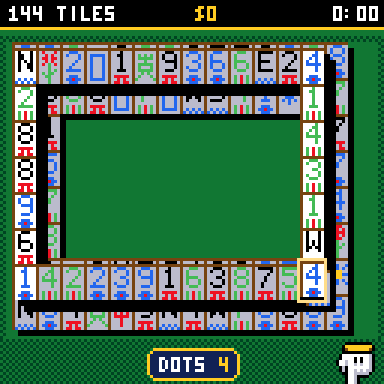
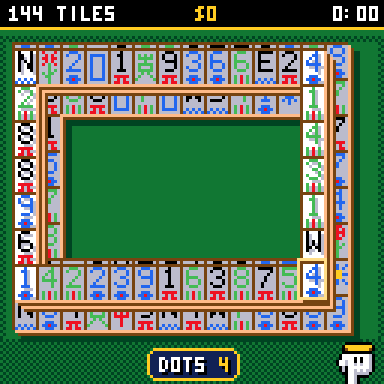
README and pictures for the close-up and the new tiles

diff --git a/README.md b/README.md
@@ -3,8 +3,9 @@
 Mahjong solitaire for the [CHGame](https://github.com/bateske/CH32SerialBoot)
 handheld (CH32X035 RISC-V, 128x128 colour LCD, piezo), in the casino style
 of [CHBlackjack](https://github.com/bateske/CHBlackjack) and
-[CHChess](https://github.com/bateske/CHChess): 144 tiles stacked on the
-felt, a pointing glove that hops between the tiles you can take, pairs that
+[CHChess](https://github.com/bateske/CHChess): 144 embossed ivory tiles
+stacked on the felt, a close-up camera that whips in round the glove, a
+pointing glove that hops between the tiles you can take, pairs that
 fly together and burst into sparks and coins, chips for every pair and a
 streak that pays more the faster you find the next one, and JACKPOT! in
 Blackjack's dancing rainbow letters when the table is cleared.
@@ -15,8 +16,8 @@ ARENA, BRIDGE and TWINS.
 | Taking pairs | The jackpot | No moves: a shuffle |
 |---|---|---|
 | ![pairs](docs/pairs.gif) | ![jackpot](docs/jackpot.gif) | ![shuffle](docs/shuffle.gif) |
-| **Title** | **The deal** | **Layouts** |
-| ![title](docs/title.gif) | ![deal](docs/deal.gif) | ![arena](docs/arena.png) |
+| **The close-up (hold B)** | **The deal** | **Title** |
+| ![zoom](docs/zoom.gif) | ![deal](docs/deal.gif) | ![title](docs/title.gif) |
 
 (Captured from the PC simulator in `tools/chsim`, which runs the real game
 and graphics code and renders what the device shows:
@@ -42,7 +43,7 @@ command line:
     arduino-cli upload  -b CHGame:ch32v:CHGame -p COMx CHMahjong
 
 (`python tools/device.py build` does the same.) Built that way the game is
-31 KB of the 50.9 KB application region.
+34 KB of the 50.9 KB application region.
 
 ## Playing
 
@@ -57,6 +58,7 @@ shaded, so the free ones stand out.
 | D-pad | move the glove to another free tile | menus |
 | A | pick the tile up; on a matching tile, take the pair; on another tile, pick that one up instead; on the same tile, put it down | select |
 | B | put the tile down; with none in hand, undo the last pair | back |
+| B held | the close-up: the camera whips in to twice the size round the glove until you let go; the D-pad and A still play | |
 | SELECT | hint: a pair you can take blinks (costs $25) | |
 | START | pause: resume, shuffle, new deal, save + quit | |
 
@@ -82,8 +84,9 @@ four a game), UNDO, or a NEW DEAL.
 
 Your best chips and time on each layout are on the layout screen (hold
 SELECT there to clear them). Options: sound, table colour (green, blue,
-red, purple felt), shade (the darker blocked tiles, on or off) and the pace
-(FUN, or QUICK: no deal animation, shorter flights). Options, bests and a
+red, purple felt), shade (the darker blocked tiles, on or off), view (FULL,
+or CLOSE: play in the close-up, and B held shows the whole table) and the
+pace (FUN, or QUICK: no deal animation, shorter flights). Options, bests and a
 game in progress (SAVE + QUIT, then CONTINUE) are saved to flash and
 survive re-uploading. CHBlackjack and CHChess keep their saves in the same
 two flash pages, so saving in one game replaces another's.
@@ -103,12 +106,20 @@ two flash pages, so saving in one game replaces another's.
   worked out a few pairs a frame under the shuffle rattle, and comes out
   the same however the work is split, so a saved game is just the deal's
   seed and the pairs taken, replayed.
-* **Tiles** are 8x12 cells at 2 bits a pixel (24 bytes a face), drawn
-  through four colours chosen at draw time - face, edge and two inks - by
-  a loop that runs from SRAM and writes whole bytes (tiles sit at even x).
-  So one set of art is a free tile, a shaded one, a white flash or a
-  shimmer. When nothing moves the pile is not redrawn at all: the outlines
-  are palette colours that animate for free.
+* **Tiles** are 8x12 faces at 2 bits a pixel (24 bytes each): the face,
+  its emboss (the art's shade, a pixel down and right, which
+  `tools/assets.py` works out from the art) and two inks. They are drawn
+  through colours chosen at draw time, so one set of art is a free tile
+  (embossed), a blocked one (flat and grey), a white flash or a gold
+  shimmer. Each stands on a body drawn as two bands, ivory then wood, like
+  a real tile's thickness and backing, and the bottom layer casts a shadow
+  on the felt. A tile lying squarely on another hides all of it but its
+  body, so only that is drawn.
+* **The close-up** draws the pile through a camera: tiles at 1x and 2x
+  are byte-wide copies from SRAM (at 2x a source pixel is a byte, a row two
+  rows), and the whip's in-between sizes are drawn a pixel at a time. When
+  nothing moves the pile is not redrawn at all: the outlines are palette
+  colours that animate for free.
 * **Sound** is a piezo sequencer of short step lists: a clack for each tile
   dealt, two clacks and a chime that climbs with the streak for a pair, a
   rattle for the shuffle, and CHBlackjack's fanfare for the jackpot.
@@ -133,7 +144,9 @@ C++ compiler (zig, clang++ or g++ on the PATH, `pip install ziglang`, or
   pair; `rec` records a GIF across a script; `cal` and `perf` estimate the
   device's render time. Scripts: `ui.txt` (every screen), `match.txt` (a
   pair, frame by frame), `clear.txt` (a whole table to the jackpot),
-  `stuck.txt` (no moves, undo, shuffle, hint), `save.txt` (save, continue).
+  `stuck.txt` (no moves, undo, shuffle, hint), `save.txt` (save, continue),
+  `zoom.txt` (the close-up, and a pair taken in it), `perf.txt` (render
+  cost at both sizes).
 * `python tools/device.py upload [--debug]` - build and upload (`--debug`
   adds the serial protocol for screenshots, injected input and lockstep);
   `python tools/device.py run tools/scripts/device_render.txt out/device`
